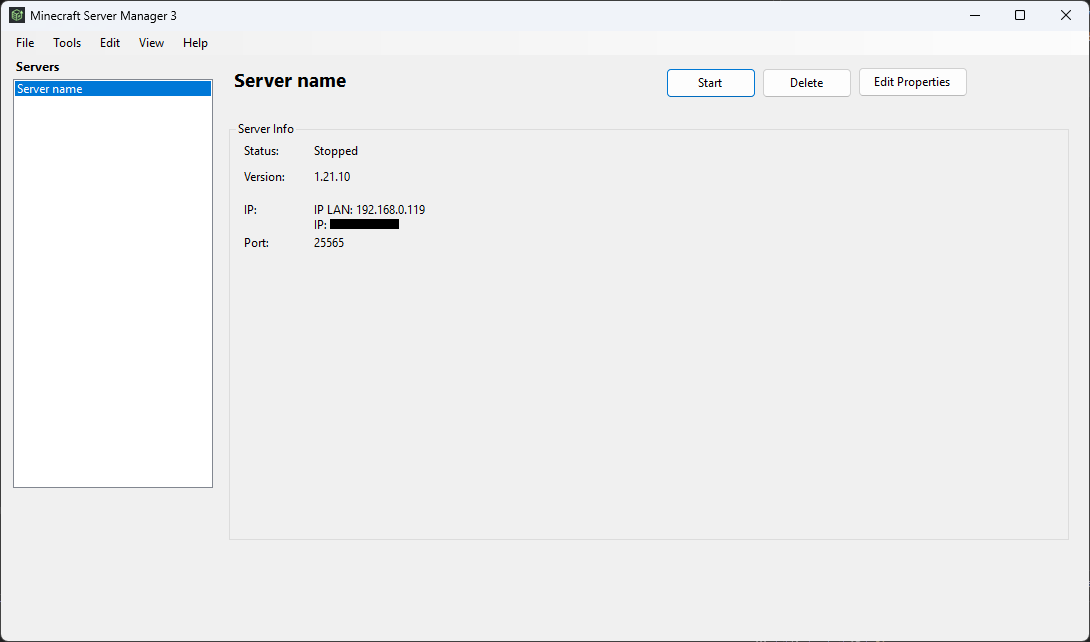
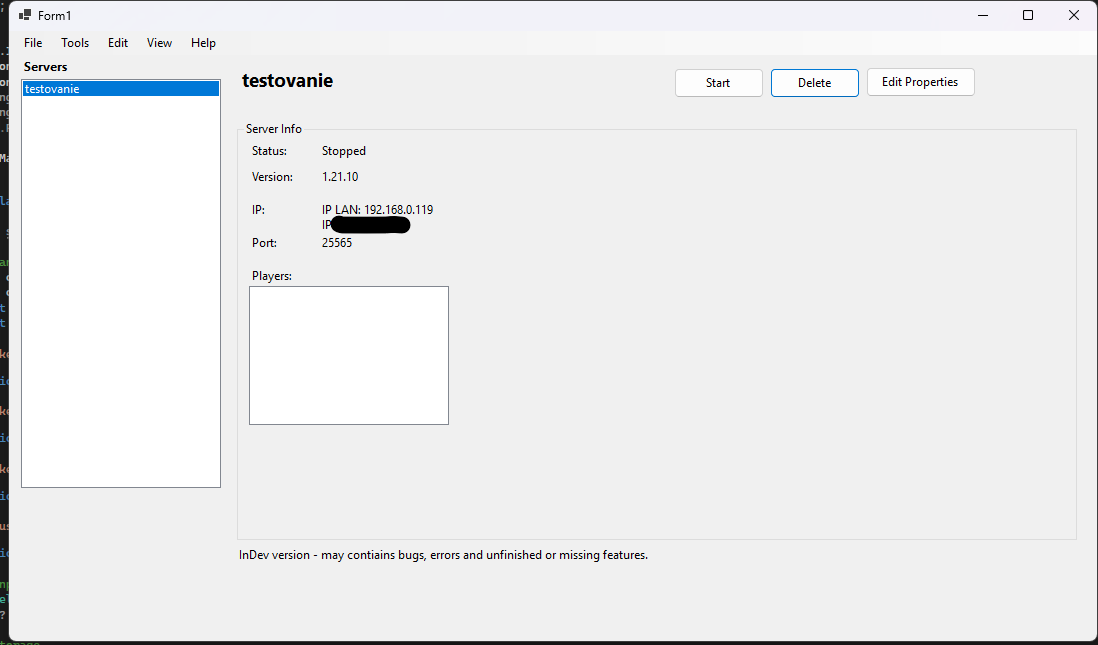
Uploading new website

diff --git a/docs/index.html b/docs/index.html
@@ -2,11 +2,9 @@
 <html style="font-size: 16px;" lang="en"><head>
     <meta name="viewport" content="width=device-width, initial-scale=1.0">
     <meta charset="utf-8">
-    <meta name="description" content="Free Windows application to easily set up, manage, and host PaperMC Minecraft servers. Simple setup, no complex configuration required.">
-    <meta name="keywords" content="Minecraft, PaperMC, Server Manager, C#, Windows, hosting, MC Server Manager">
-    <meta name="robots" content="index, follow">
-    <meta name="google-site-verification" content="1sw176Wutv7i1D0qpmXwEi1pKUepTvZhyQuT8otPcRo" />
-    <title>MC Server Manager | Free Windows Tool for PaperMC</title>
+    <meta name="keywords" content="MC Server Manager">
+    <meta name="description" content="">
+    <title>Home</title>
     <link rel="stylesheet" href="nicepage.css" media="screen">
 <link rel="stylesheet" href="Home.css" media="screen">
     <script class="u-script" type="text/javascript" src="jquery.js" defer=""></script>
@@ -65,10 +63,10 @@
         <h1 class="u-text u-text-default u-title u-text-1">MC Server Manager</h1>
         <p class="u-large-text u-text u-text-variant u-text-2"><b>MC Server Manager</b> is a lightweight and simple tool built for players who want to host their own local PaperMC server with ease. Forget about complex terminal commands or manual configurations — set up and manage your server in just a few clicks. The easiest way to play Minecraft with your friends, hassle-free.
         </p>
-        <a href="https://github.com/JaatrovyKnedlicek/MC-Server-Manager-Windows/releases/download/3.0-alpha2/win-x64.exe" class="u-btn u-button-style u-grey-75 u-text-custom-color-1 u-btn-1" target="_blank">Download<br>alpha preview
+        <a href="https://github.com/JaatrovyKnedlicek/MC-Server-Manager-Windows/releases/download/3.0/win-x64.exe" class="u-btn u-button-style u-grey-75 u-text-custom-color-1 u-btn-1" target="_blank">Download<br>
         </a>
         <a href="https://github.com/JaatrovyKnedlicek/MC-Server-Manager-Windows" class="u-black u-btn u-button-style u-btn-2">Github</a>
-        <p class="u-text u-text-3"> sha256:611c9df5910b89afef19b390662ce2fd37d73590ce91e4de138aa041b4e8ca0e</p>
+        <p class="u-text u-text-3"> sha256:ccf14316b09929b4f25078483b8fd45b9e9f99a8922ed9cce8730504bea30a84</p>
       </div>
     </section>
     <section class="u-align-center u-black u-clearfix u-section-2" id="sec-79f2">
@@ -102,7 +100,7 @@
     </section>
     <section class="u-black u-clearfix u-container-align-center u-section-3" id="sec-48f2">
       <div class="u-clearfix u-sheet u-sheet-1">
-        <img class="u-image u-image-default u-image-1" src="images/025506.png" alt="" data-image-width="1098" data-image-height="645">
+        <img class="u-image u-image-default u-image-1" src="images/Snmkaobrazovky2026-08-16153539.png" alt="" data-image-width="1090" data-image-height="642">
       </div>
     </section>
     

diff --git a/docs/Home.html b/docs/Home.html
@@ -63,10 +63,10 @@
         <h1 class="u-text u-text-default u-title u-text-1">MC Server Manager</h1>
         <p class="u-large-text u-text u-text-variant u-text-2"><b>MC Server Manager</b> is a lightweight and simple tool built for players who want to host their own local PaperMC server with ease. Forget about complex terminal commands or manual configurations — set up and manage your server in just a few clicks. The easiest way to play Minecraft with your friends, hassle-free.
         </p>
-        <a href="https://github.com/JaatrovyKnedlicek/MC-Server-Manager-Windows/releases/download/3.0/win-x64.exe" class="u-btn u-button-style u-grey-75 u-text-custom-color-1 u-btn-1" target="_blank">Download<br>alpha preview
+        <a href="https://github.com/JaatrovyKnedlicek/MC-Server-Manager-Windows/releases/download/3.0/win-x64.exe" class="u-btn u-button-style u-grey-75 u-text-custom-color-1 u-btn-1" target="_blank">Download<br>
         </a>
         <a href="https://github.com/JaatrovyKnedlicek/MC-Server-Manager-Windows" class="u-black u-btn u-button-style u-btn-2">Github</a>
-        <p class="u-text u-text-3"> sha256:611c9df5910b89afef19b390662ce2fd37d73590ce91e4de138aa041b4e8ca0e</p>
+        <p class="u-text u-text-3"> sha256:ccf14316b09929b4f25078483b8fd45b9e9f99a8922ed9cce8730504bea30a84</p>
       </div>
     </section>
     <section class="u-align-center u-black u-clearfix u-section-2" id="sec-79f2">
@@ -100,7 +100,7 @@
     </section>
     <section class="u-black u-clearfix u-container-align-center u-section-3" id="sec-48f2">
       <div class="u-clearfix u-sheet u-sheet-1">
-        <img class="u-image u-image-default u-image-1" src="images/025506.png" alt="" data-image-width="1098" data-image-height="645">
+        <img class="u-image u-image-default u-image-1" src="images/Snmkaobrazovky2026-08-16153539.png" alt="" data-image-width="1090" data-image-height="642">
       </div>
     </section>
     

diff --git a/docs/Home.css b/docs/Home.css
@@ -23,19 +23,19 @@
   text-transform: uppercase;
   font-weight: 700;
   margin: 40px auto 0 20px;
-  padding: 13px 30px 14px;
+  padding: 10px 30px;
 }
 
 .u-section-1 .u-btn-2 {
   background-image: none;
   text-transform: uppercase;
   font-weight: 700;
-  margin: -61px auto 0 264px;
+  margin: -45px auto 0 218px;
 }
 
 .u-section-1 .u-text-3 {
   font-size: 0.875rem;
-  margin: 56px 97px 60px 20px;
+  margin: 47px 97px 60px 20px;
 }
 
 @media (max-width: 1199px) {
@@ -57,7 +57,7 @@
   }
 
   .u-section-1 .u-btn-2 {
-    margin-left: 64px;
+    margin-left: 18px;
   }
 
   .u-section-1 .u-text-3 {
@@ -244,8 +244,8 @@
 
 .u-section-3 .u-image-1 {
   width: 570px;
-  height: 335px;
-  margin: 33px auto 60px;
+  height: 336px;
+  margin: 32px auto 60px;
 }
 
 @media (max-width: 767px) {
@@ -255,13 +255,13 @@
 
   .u-section-3 .u-image-1 {
     width: 540px;
-    height: 317px;
+    height: 318px;
   }
 }
 
 @media (max-width: 575px) {
   .u-section-3 .u-sheet-1 {
-    min-height: 265px;
+    min-height: 264px;
   }
 
   .u-section-3 .u-image-1 {
